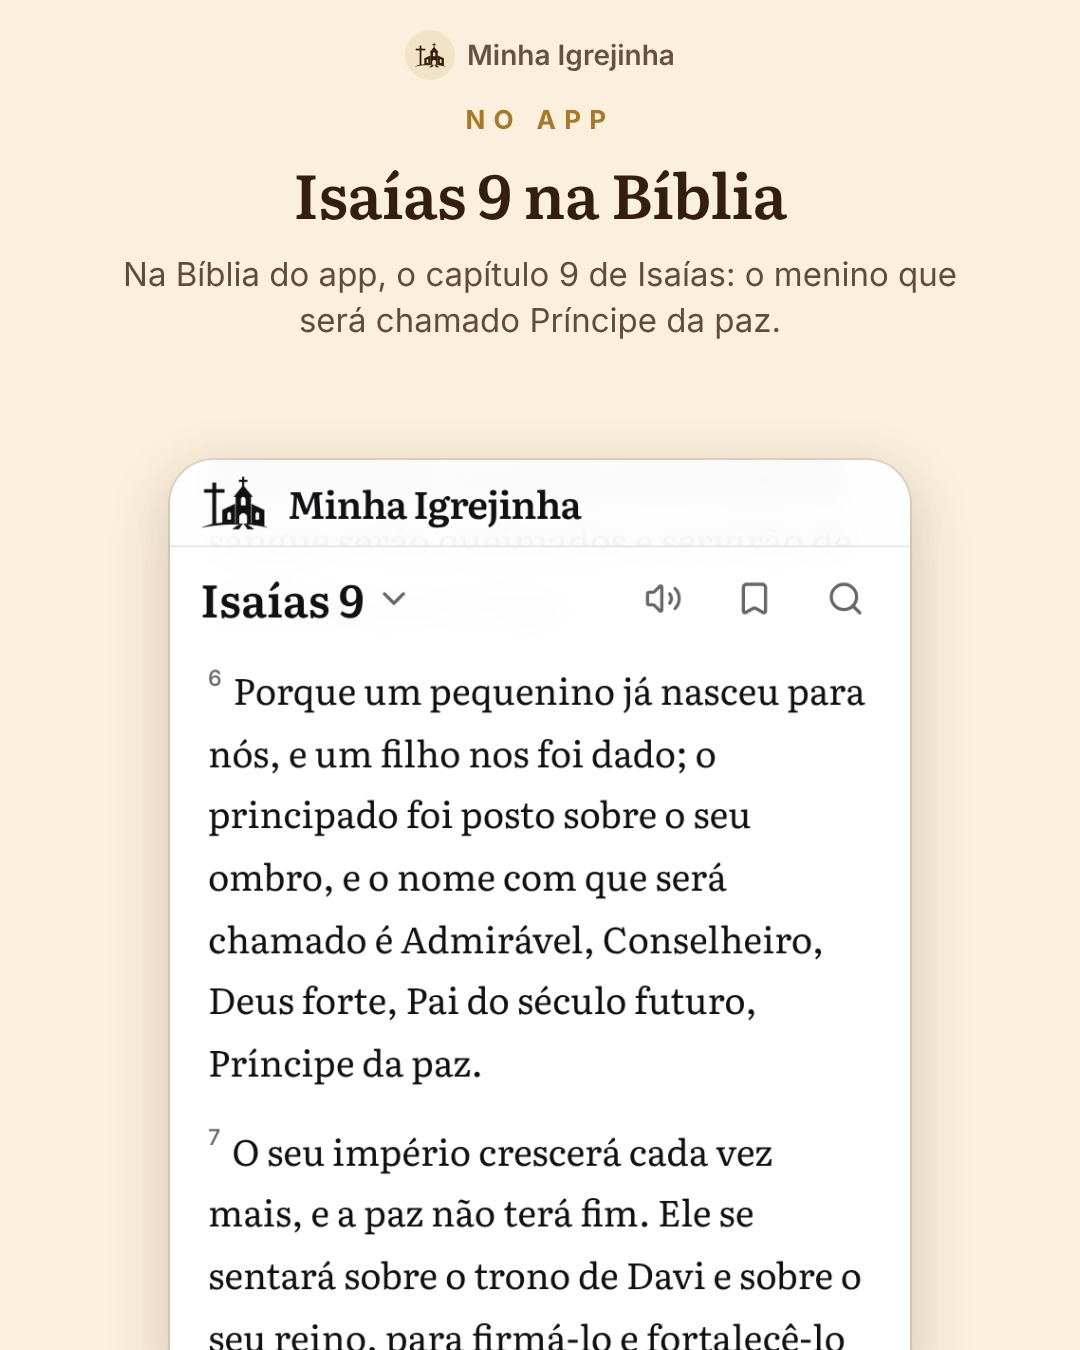
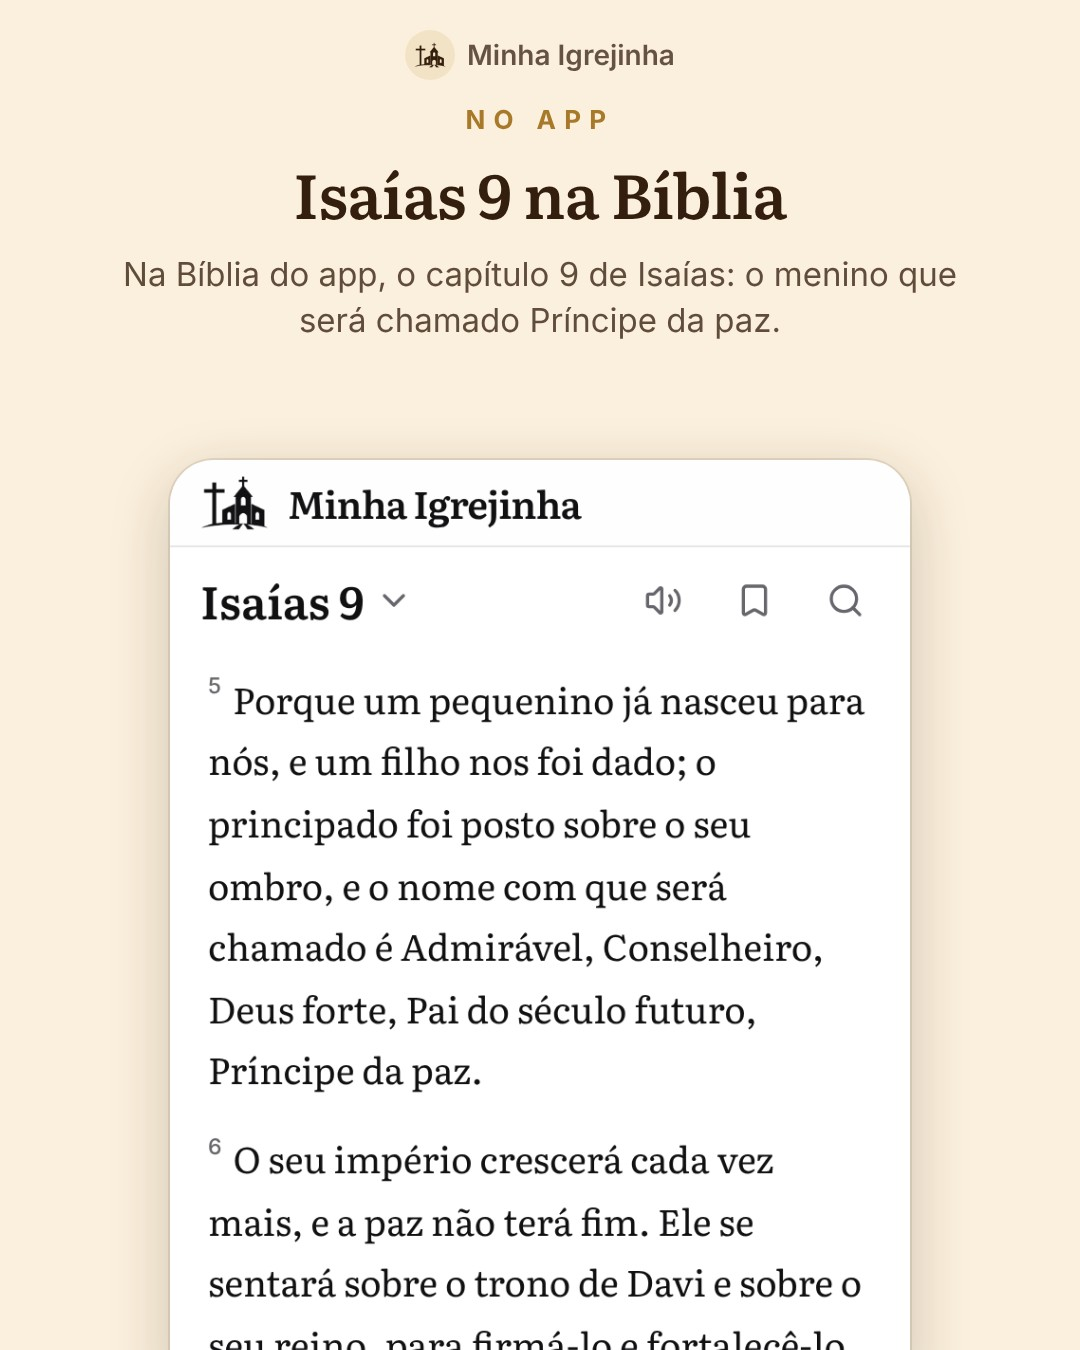
Instagram: posts de 26/11, 05/12 e 16/12 na numeração nova da Bíblia (Is 9,1; Is 9,5-6; Ml 3,20)
Claude-Session: https://claude.ai/code/session_01KkDATWAAHk8rZXQWk2D87j

diff --git a/docs/marca/instagram/curiosidades/2026-11-26-arvore-de-natal/fontes.md b/docs/marca/instagram/curiosidades/2026-11-26-arvore-de-natal/fontes.md
@@ -15,3 +15,5 @@
 - Montar no começo do Advento e desmontar no Dia de Reis (6 de janeiro): costume popular no Brasil, pedido do dono em 18/11/2026; o post diz que é costume e não regra da Igreja (Diretório, n. 109), e que o tempo do Natal vai até o Batismo do Senhor. Mt 2,11 no texto da Bíblia do app (MAT.c26a56612b.json, cap. 2, v. 11). Conferido.
 - NÃO entrou (sem fonte da Igreja conferida): montar ou desmontar em data fixa como regra; desmontar em 2 de fevereiro; origem histórica da árvore (o Diretório diz só "a prescindere dalle sue origini storiche"); enfeites de maçãs e hóstias dos países nórdicos (está no n. 109, ficou de fora por espaço); bênção da árvore do Livro de Bênçãos dos EUA (não é do ritual universal nem do Brasil).
 - Arte: Viggo Johansen (1851-1935), Glade jul (Feliz Natal), 1891; domínio público (Commons; original em Museernes Samlinger, Dinamarca). Wikimedia Commons: https://commons.wikimedia.org/wiki/File:Viggo_Johansen_-_Glade_jul_-_1891_(brightness_increased).jpg (cópia de 3840 px em lote-e/arte/glade-jul.jpg). Não usada em nenhum outro post (conferido nos post.json dos lotes a-d).
+
+- Numeração da Bíblia do app atualizada em 18/11/2026 (Antigo Testamento na numeração das Bíblias de hoje): Is 9,2 > Is 9,1; Is 9,6-7 > Is 9,5-6; Ml 4,2 > Ml 3,20.

diff --git a/docs/marca/instagram/curiosidades/2026-12-16-profecias-do-messias/fontes.md b/docs/marca/instagram/curiosidades/2026-12-16-profecias-do-messias/fontes.md
@@ -10,3 +10,5 @@
 - NÃO entrou: em que dias essas leituras caem na missa (em 2026 o dia 20/12, que traz Is 7,10-14 nos dias de semana, é domingo).
 - Capa: Hans Memling, A Anunciação (1480-89), domínio público (The Metropolitan Museum of Art, Coleção Robert Lehman, 1975.1.113, Open Access CC0; https://www.metmuseum.org/art/collection/search/459055). Troca da revisão: a cópia do Tanner tinha 1024x807 (borrada em 1080x1350) e a mesma obra já é capa de 28/11.
 - Tela: Bíblia > Isaías 9, versículo 6.
+
+- Numeração da Bíblia do app atualizada em 18/11/2026 (Antigo Testamento na numeração das Bíblias de hoje): Is 9,2 > Is 9,1; Is 9,6-7 > Is 9,5-6; Ml 4,2 > Ml 3,20.

diff --git a/docs/marca/instagram/curiosidades/2026-12-05-coroa-do-advento/fontes.md b/docs/marca/instagram/curiosidades/2026-12-05-coroa-do-advento/fontes.md
@@ -10,3 +10,5 @@
 ## Revisão (18/11/2026)
 - Capa trocada pela versão em alta resolução do mesmo quadro (a cópia do app tem 640 px): lote-b/arte/friedrich.jpg (Commons).
 - O desafio Advento com Maria pede a vela no 1º, 2º e 3º domingo (src/devocao/desafios/advento.ts); o texto não diz mais "a cada domingo".
+
+- Numeração da Bíblia do app atualizada em 18/11/2026 (Antigo Testamento na numeração das Bíblias de hoje): Is 9,2 > Is 9,1; Is 9,6-7 > Is 9,5-6; Ml 4,2 > Ml 3,20.
